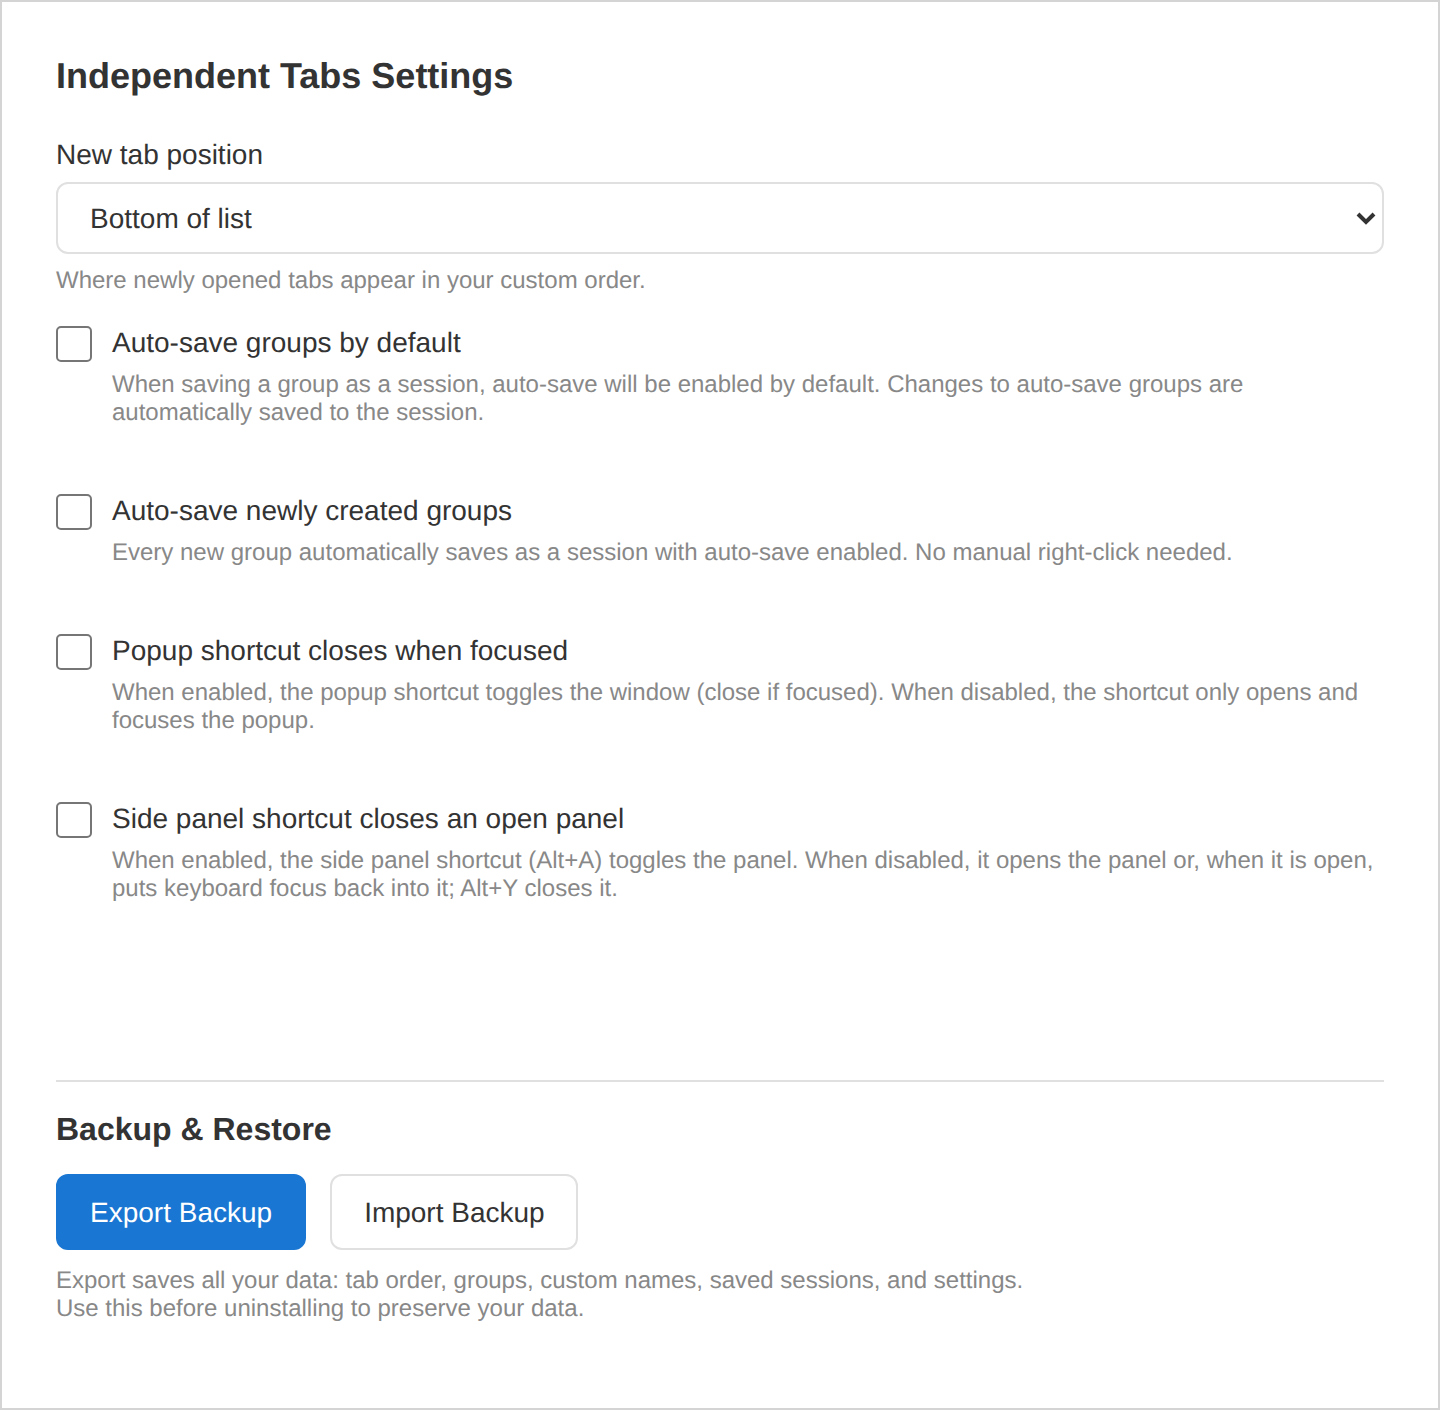
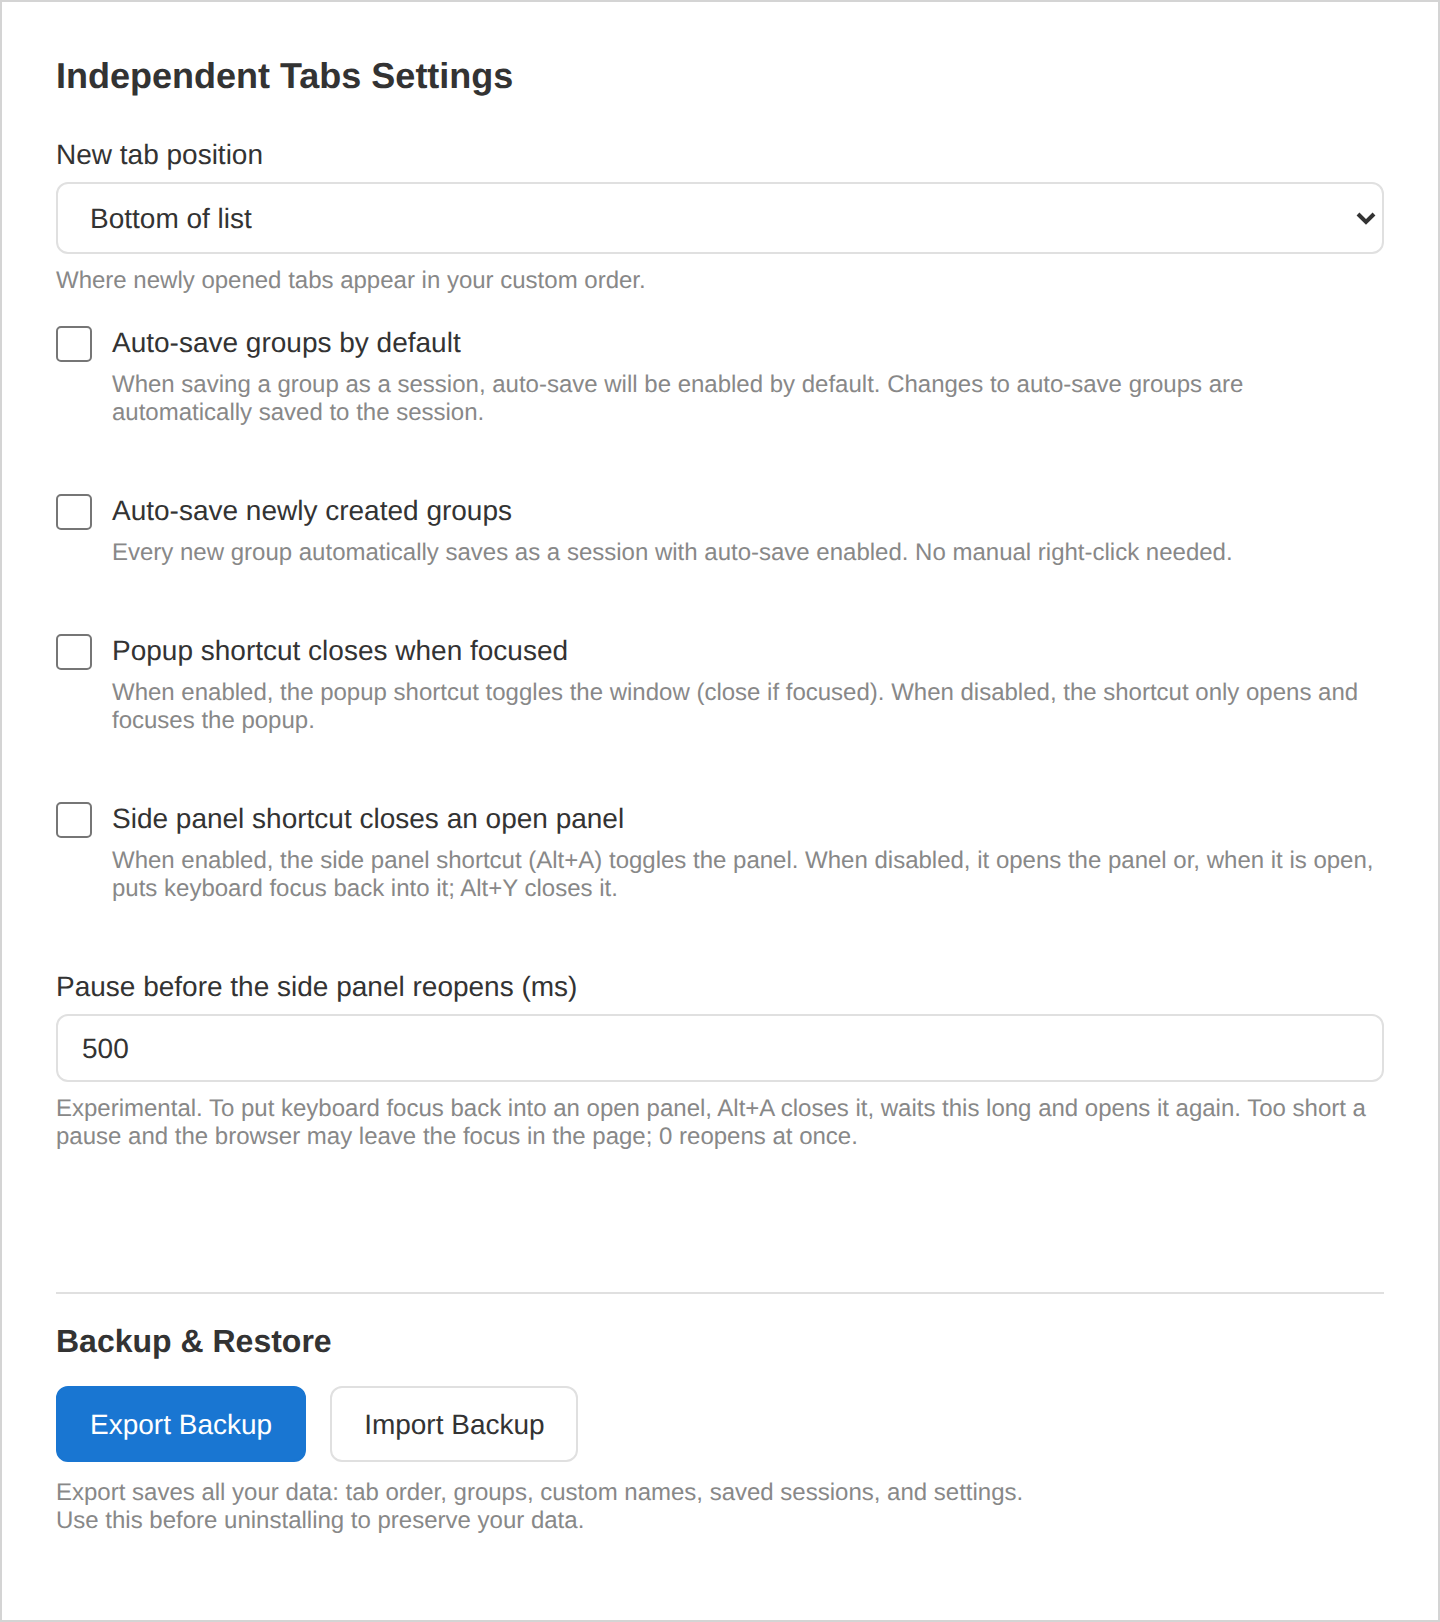
Alt+A keeps the side panel closed for a pause before it opens it again
Reopened in the same instant, the new panel does not always get keyboard focus;
after a pause it does. The pause is a setting (500 ms). Settings defaults live in
the worker only and are written into storage on install or update. The side panel
no longer reconnects to the worker after an extension reload, which threw.

diff --git a/service-worker.js b/service-worker.js
@@ -6,7 +6,13 @@ importScripts('tab-items.js');
 // Tab tracking lives here rather than in the pages: the worker is woken for every tab event,
 // while a side panel or popup only sees the tabs created while it is open.
 
-const DEFAULT_SETTINGS = { newTabPosition: 'bottom' };
+// The one source of each setting's default; an install or update writes the missing ones into
+// storage, so every reader finds a value there.
+const DEFAULT_SETTINGS = {
+  newTabPosition: 'bottom',
+  panelShortcutToggles: false,
+  panelReopenPause: 500,  // ms the side panel stays closed before the shortcut opens it again
+};
 
 // One storage read-modify-write at a time; events arriving together would otherwise each read
 // the same order and overwrite each other's additions.
@@ -36,7 +42,7 @@ chrome.runtime.onInstalled.addListener(() => serialized(async () => {
   await chrome.sidePanel.setPanelBehavior({ openPanelOnActionClick: true });
 
   const { settings, items, tabOrder } = await chrome.storage.local.get(['settings', 'items', 'tabOrder']);
-  if (!settings) await chrome.storage.local.set({ settings: DEFAULT_SETTINGS });
+  await chrome.storage.local.set({ settings: { ...DEFAULT_SETTINGS, ...settings } });
   if (Array.isArray(tabOrder)) {
     // Order format of the first releases: a flat list of tab IDs
     if (!items || items.length === 0) await chrome.storage.local.set({ items: tabOrder });
@@ -108,12 +114,12 @@ chrome.windows.onRemoved.addListener(async (windowId) => {
 // handler's first await, so this listener decides from state it already holds: the windows whose
 // panel is open and the settings, both kept current below.
 const openPanels = new Map();  // windowId -> connected panel pages
-let panelShortcutToggles = false;
-chrome.storage.local.get('settings').then(({ settings }) => {
-  panelShortcutToggles = settings?.panelShortcutToggles ?? false;
+let cachedSettings = DEFAULT_SETTINGS;
+chrome.storage.local.get('settings').then((stored) => {
+  cachedSettings = { ...DEFAULT_SETTINGS, ...stored.settings };
 });
 chrome.storage.onChanged.addListener((changes, area) => {
-  if (area === 'local' && changes.settings) panelShortcutToggles = changes.settings.newValue?.panelShortcutToggles ?? false;
+  if (area === 'local' && changes.settings) cachedSettings = { ...DEFAULT_SETTINGS, ...changes.settings.newValue };
 });
 
 // Each open side panel holds a port and pings over it, which keeps the worker, and with it the
@@ -135,11 +141,22 @@ chrome.runtime.onConnect.addListener((port) => {
 
 const logError = (err) => console.error('Independent Tabs:', err);
 
+// Blocks the worker for `ms`. The browser keeps processing the API calls made before, so this
+// spaces them out in time while the user gesture, a flag held for the synchronous run of the
+// handler, stays valid; Atomics.wait is not allowed in a service worker.
+function pause(ms) {
+  const end = performance.now() + ms;
+  while (performance.now() < end);
+}
+
 // sidePanel.open on a panel that is already open leaves keyboard focus where it is, in the page
 // after a tab was activated. Disabling the panel closes it, and the panel opened again takes
-// keyboard focus. Disabling closes the panels of all windows, so those open elsewhere open again.
+// keyboard focus. The pause lets the browser finish closing the panel first: opened while the
+// old panel is still on its way out, the new one does not reliably get the focus. Disabling
+// closes the panels of all windows, so those open elsewhere open again.
 function reopenPanel(windowId) {
   chrome.sidePanel.setOptions({ enabled: false }).catch(logError);
+  if (openPanels.has(windowId)) pause(cachedSettings.panelReopenPause);
   chrome.sidePanel.setOptions({ enabled: true }).catch(logError);
   chrome.sidePanel.open({ windowId }).catch(logError);
   for (const other of openPanels.keys()) {
@@ -151,7 +168,7 @@ chrome.commands.onCommand.addListener((command, tab) => {
   if (!tab) return;
   const { windowId } = tab;
   if (command === 'focus-panel') {
-    if (panelShortcutToggles && openPanels.has(windowId)) {
+    if (cachedSettings.panelShortcutToggles && openPanels.has(windowId)) {
       chrome.sidePanel.close({ windowId }).catch(logError);
     } else {
       reopenPanel(windowId);

diff --git a/options.js b/options.js
@@ -6,6 +6,7 @@ document.addEventListener('DOMContentLoaded', async () => {
   const autoSaveOnGroupCreationCheckbox = document.getElementById('autosave-on-group-creation');
   const popupCloseOnRefocusCheckbox = document.getElementById('popup-close-on-refocus');
   const panelShortcutTogglesCheckbox = document.getElementById('panel-shortcut-toggles');
+  const panelReopenPauseInput = document.getElementById('panel-reopen-pause');
   const savedIndicator = document.getElementById('saved');
   const exportBtn = document.getElementById('export-btn');
   const importBtn = document.getElementById('import-btn');
@@ -19,6 +20,7 @@ document.addEventListener('DOMContentLoaded', async () => {
   autoSaveOnGroupCreationCheckbox.checked = settings.autoSaveOnGroupCreation || false;
   popupCloseOnRefocusCheckbox.checked = settings.popupCloseOnRefocus || false;
   panelShortcutTogglesCheckbox.checked = settings.panelShortcutToggles || false;
+  panelReopenPauseInput.value = settings.panelReopenPause;
 
   // Save settings helper
   async function saveSettings(updates) {
@@ -47,6 +49,12 @@ document.addEventListener('DOMContentLoaded', async () => {
 
   panelShortcutTogglesCheckbox.addEventListener('change', async (e) => {
     await saveSettings({ panelShortcutToggles: e.target.checked });
+  });
+
+  panelReopenPauseInput.addEventListener('change', async (e) => {
+    const pause = Math.min(Math.max(Math.round(Number(e.target.value)) || 0, 0), 5000);
+    e.target.value = pause;
+    await saveSettings({ panelReopenPause: pause });
   });
 
   // Export backup
@@ -135,6 +143,7 @@ document.addEventListener('DOMContentLoaded', async () => {
       autoSaveOnGroupCreationCheckbox.checked = newSettings.autoSaveOnGroupCreation || false;
       popupCloseOnRefocusCheckbox.checked = newSettings.popupCloseOnRefocus || false;
       panelShortcutTogglesCheckbox.checked = newSettings.panelShortcutToggles || false;
+      panelReopenPauseInput.value = newSettings.panelReopenPause ?? '';
 
       // Show success with alert to ensure visibility
       const restoredItems = Array.isArray(verified.items) ? verified.items.length : 0;

diff --git a/tests/e2e/extension.test.js b/tests/e2e/extension.test.js
@@ -205,7 +205,7 @@ test('Arrow Up on the first entry moves into the search field, Arrow Down back i
 });
 
 // Presses a chord the way the browser's shortcut handling sees it; page.keyboard never fires a command
-async function shortcut(p, chord) {
+async function shortcut(p, chord, settle = 1000) {
   const [key] = chord.split('+').slice(-1);
   const code = key.toUpperCase().charCodeAt(0);
   const cdp = await context.newCDPSession(p);
@@ -216,7 +216,7 @@ async function shortcut(p, chord) {
     });
   }
   await cdp.detach();
-  await sleep(1000);
+  await sleep(settle);
 }
 
 async function sidePanelId(p) {
@@ -234,7 +234,11 @@ test('Alt+A opens the side panel and opens it again when it is open, Alt+Y close
   await shortcut(p, 'Alt+A');
   const first = await sidePanelId(p);
   expect(first).toBeDefined();
-  await shortcut(p, 'Alt+A');
+
+  // The open panel closes at once and comes back as a new document only after the pause
+  await shortcut(p, 'Alt+A', 250);
+  expect(await sidePanelId(p)).toBeUndefined();
+  await sleep(1000);
   const second = await sidePanelId(p);
   expect(second).toBeDefined();
   expect(second).not.toBe(first);

diff --git a/options.html b/options.html
@@ -49,7 +49,7 @@
       font-weight: 500;
     }
 
-    select {
+    select, input[type="number"] {
       width: 100%;
       padding: 8px 12px;
       border: 1px solid var(--border-color);
@@ -60,7 +60,7 @@
       cursor: pointer;
     }
 
-    select:focus {
+    select:focus, input[type="number"]:focus {
       outline: none;
       border-color: var(--accent-color);
     }
@@ -237,6 +237,12 @@
         <p class="hint">When enabled, the side panel shortcut (Alt+A) toggles the panel. When disabled, it opens the panel or, when it is open, puts keyboard focus back into it; Alt+Y closes it.</p>
       </label>
     </div>
+  </div>
+
+  <div class="setting">
+    <label for="panel-reopen-pause">Pause before the side panel reopens (ms)</label>
+    <input type="number" id="panel-reopen-pause" min="0" max="5000" step="50">
+    <p class="hint">Experimental. To put keyboard focus back into an open panel, Alt+A closes it, waits this long and opens it again. Too short a pause and the browser may leave the focus in the page; 0 reopens at once.</p>
   </div>
 
   <div id="saved" class="saved">Settings saved</div>

diff --git a/sidepanel.js b/sidepanel.js
@@ -86,14 +86,17 @@ async function init() {
 }
 
 // Tells the service worker that this window's side panel is open, which the panel shortcuts
-// depend on, and keeps the worker running meanwhile. A worker restart drops the port.
+// depend on, and keeps the worker running meanwhile. A worker restart drops the port; so does
+// a reload of the extension, after which this document's chrome.runtime is gone (runtime.id
+// is undefined) and a reconnect would throw.
 function connectToWorker(windowId) {
   const port = chrome.runtime.connect({ name: 'sidepanel' });
   port.postMessage({ windowId });
   const ping = setInterval(() => port.postMessage({}), 20000);
   port.onDisconnect.addListener(() => {
     clearInterval(ping);
-    connectToWorker(windowId);
+    void chrome.runtime.lastError;  // reading it keeps a failed connection out of the error log
+    if (chrome.runtime?.id) connectToWorker(windowId);
   });
 }
 

diff --git a/scripts/screenshots/capture.js b/scripts/screenshots/capture.js
@@ -61,8 +61,10 @@ try {
     ...(entry.session && { linkedSessionId: entry.session, autoSave: sessions()[entry.session].autoSave }),
   });
   await driver.evaluate(async (data) => {
+    // The install wrote the defaults of the settings the seed does not name; keep them
+    const { settings: installed = {} } = await chrome.storage.local.get('settings');
     await chrome.storage.local.clear();
-    await chrome.storage.local.set(data);
+    await chrome.storage.local.set({ ...data, settings: { ...installed, ...data.settings } });
     const [tab] = await chrome.tabs.query({ active: true, windowType: 'normal' });
     return tab;
   }, {

diff --git a/CHANGELOG.md b/CHANGELOG.md
@@ -12,12 +12,17 @@ and this project adheres to [Semantic Versioning](https://semver.org/spec/v2.0.0
 - Alt+Y closes the side panel
 - Setting *Side panel shortcut closes an open panel* restores Alt+A as a toggle
 - Arrow Up on the first tab moves into the search field
+- Setting *Pause before the side panel reopens* (experimental): how long Alt+A keeps an open panel closed before it opens again
 
 ### Changed
 
-- Alt+A on an open side panel puts keyboard focus back into it instead of closing it, so the arrow keys work again after a tab took focus. It does so by reopening the panel. The oldest supported browser version is 141, the first with `sidePanel.close`
+- Alt+A on an open side panel puts keyboard focus back into it instead of closing it, so the arrow keys work again after a tab took focus. It does so by closing the panel and opening it again after a short pause; opened too early, the new panel does not always get the focus. The oldest supported browser version is 141, the first with `sidePanel.close`
 - Arrow Down in the search field moves into the list onto the first match; the arrows walk the matches from there. Enter in the list clears an active search, like Enter in the search field
 - New toolbar icon from the logo
+
+### Fixed
+
+- The side panel does not try to reconnect to the service worker after the extension was reloaded, which logged an error
 
 ## [1.11.0] - 2026-11-11
 

diff --git a/docs/shortcuts.md b/docs/shortcuts.md
@@ -6,7 +6,7 @@ Active in any browser window; change them at `chrome://extensions/shortcuts`.
 
 | Shortcut | Action |
 |----------|--------|
-| Alt+A | Open the side panel; when it is open, put keyboard focus back into it, for instance after Enter activated a tab. With the setting *Side panel shortcut closes an open panel* on, a press on an open panel closes it instead |
+| Alt+A | Open the side panel; when it is open, put keyboard focus back into it, for instance after Enter activated a tab: the panel closes and opens again after the pause set in the settings. With the setting *Side panel shortcut closes an open panel* on, a press on an open panel closes it instead |
 | Alt+Y | Close the side panel |
 | Alt+Q | Open the list in a popup window, or bring it to the front. With the setting *Popup shortcut closes when focused* on, a second press closes it |
 | Alt+S | Open the quick search; a second press while it is focused closes it |

diff --git a/docs/features.md b/docs/features.md
@@ -53,4 +53,5 @@ Alt+Q opens the same list in a popup window. It remembers its size, activates ea
 
 - New tab position: top or bottom of the list.
 - Auto-save groups by default, auto-save newly created groups, whether the popup shortcut closes a focused popup, and whether the side panel shortcut closes an open panel.
+- Pause before the side panel reopens (experimental): how long Alt+A keeps an open panel closed before opening it again with keyboard focus. Lengthen it when the focus stays in the page.
 - **Export Backup** writes tab order, groups, custom names, saved sessions and settings to a JSON file; **Import Backup** replaces all current data with such a file after a confirmation.
